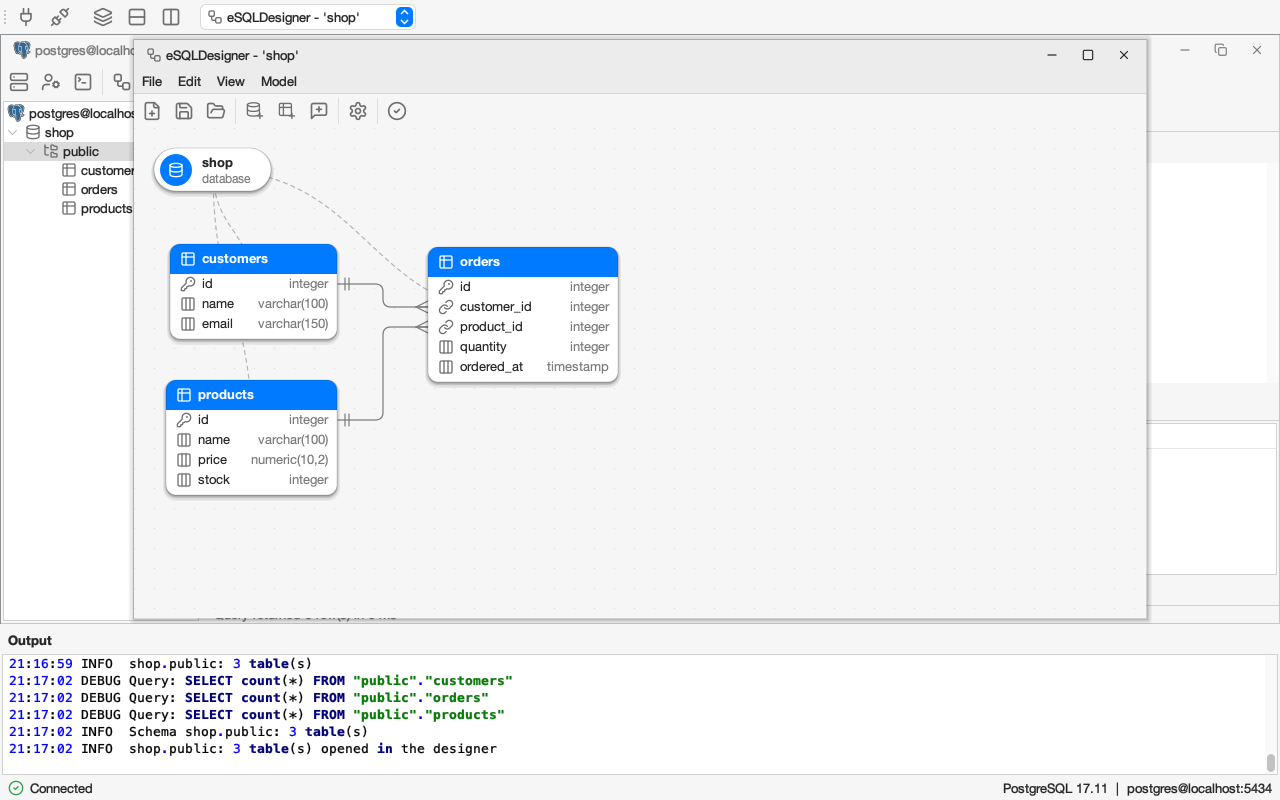
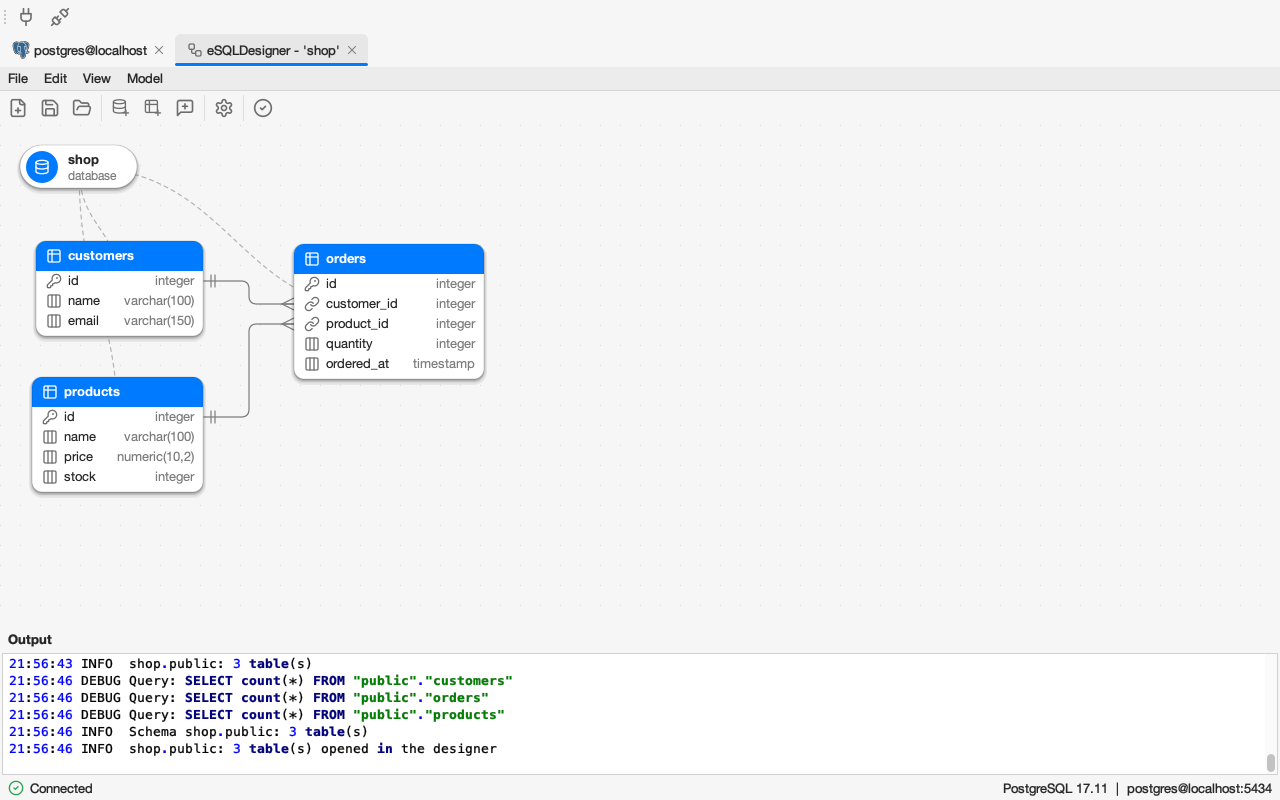
docs: describe the window tabs, retake the screenshots
Claude-Session: https://claude.ai/code/session_01TpgfMUNA4K1qpyx5mWFodg

diff --git a/CLAUDE.md b/CLAUDE.md
@@ -45,7 +45,7 @@ Java Swing database manager (originally an Errorsoft graduation project, 2002-20
 ### UI
 
 * Look and feel is FlatLaf, chosen through `settings.Appearance` (Follow the system, Light, Dark, Native) and stored in `conf/settings.xml` (`<appearance>`), changed in Settings > Preferences and applied at once. On macOS FlatLaf uses its Mac themes, `Main` sets the screen menu bar and system appearance properties before the first window (`Appearance.prepareDesktop`). The native macOS look was far too slow when resizing, so it is only used when the user picks Native.
-* Use Swing only, no AWT widgets (`Label`, `Button`, ...). Dialogs use layout managers, not null layouts with absolute bounds; `ui.util.Forms` gives the 12px padding, the button row at the bottom right, titled groups and a label/field grid. Only the designer canvas (`DesignerCanvas`, its cards, the text inside a `NoteCard`), internal frames placed by `DesktopWindows` and the splash (credits scrolled over a fixed image) place components at absolute positions.
+* Use Swing only, no AWT widgets (`Label`, `Button`, ...). Dialogs use layout managers, not null layouts with absolute bounds; `ui.util.Forms` gives the 12px padding, the button row at the bottom right, titled groups and a label/field grid. Only the designer canvas (`DesignerCanvas`, its cards, the text inside a `NoteCard`) and the splash (credits scrolled over a fixed image) place components at absolute positions.
 * Do not hardcode `Color.white` or `Color.gray`. Take colours from `UIManager` (grid lines `Table.gridColor`). A read-only `JTextPane` is painted grey by FlatLaf, set its background explicitly. A problem or success message takes `Forms.errorColor()` / `Forms.successColor()` (the theme's `Actions.Red`/`Actions.Green`, one fallback each).
 * The help tab (`help.ui.HelpPanel`) renders the Markdown of docs/ with `HelpPages.render(name, dark)`: a white page in light themes, a dark one in dark themes (the pane takes its background from the same `HelpPages.LIGHT_BACKGROUND`/`DARK_BACKGROUND`), rendered again when the look and feel changes.
 * Settings has only the appearance; there is no auto-update.
@@ -58,12 +58,12 @@ Java Swing database manager (originally an Errorsoft graduation project, 2002-20
 * What an action works on comes from the node selected in the tree through `connection.TreeSelection` (pure, null when nothing is selected; `ConnectionWindow.getDatabase/getSchema/getTable/getTableColumn` delegate to it). `ConnectionWindowController` asks for it with `selectedDatabase(action)`, `selectedTable(action)`, ... which warn "Select a table in the tree first." and return null. A query tab opened without a selection starts on the database the connection uses (`QueryController.startDatabase`).
 * Context menus are built when they open and show only the items that apply. The tree's items come from `connection.TreeMenu.itemsFor(node, dialect)` (pure, `TreeMenuTest`), based on `Dialect.supports(Feature)` and `Dialect.maintenanceCommands()`; `ConnectionWindow.perform` wires each item to a `ConnectionWindowController` method. The designer's menus are built in `DesignerCanvas` (canvas, table, database, note, connector; `DesignerCanvasMenuTest`). Popups open on `isPopupTrigger()` in both mousePressed and mouseReleased, after selecting what is under the cursor.
 * Create table, Edit table and Indexes are tabs of the connection window (`table.ui.TableEditorTab`, `table.ui.IndexesTab`, opened by `TableEditorController` and `IndexesController` through `ConnectionWindow.showEditorTab`), one per table under a key (`selectEditorTab` jumps to an open one), titled "New table", "Edit orders", "Indexes orders". Save and Cancel are at the bottom. An editor implements `ui.component.EditorTab`: `ConnectionWindow.closeTab` asks its `confirmClose()` ("Discard changes?" when modified), `removeTab` closes it without asking after a successful Save. Esc does not close a tab (`EscapeToClose` is for dialogs). The field properties of one column (`ColumnPropertiesDialog`) and the name prompt for a new index stay dialogs.
-* Work windows are internal frames on the desktop of the main window (`JDesktopPane`): connection windows and designers. The window selector of the main toolbar (`JComboBox<JInternalFrame>`, `ServerIconRenderer`) lists both. No feature opens a separate top level window for its work; dialogs stay dialogs.
+* Work windows are internal frames on the desktop of the main window (`JDesktopPane`): connection windows and designers. They are always maximized and have no title bar or border (`app.ui.WindowTabsPanel` removes the UI delegate's north pane, again after a change of look and feel); their menu bar (the designer's) stays inside the frame. `WindowTabsPanel`, a `JTabbedPane` with empty content above the desktop, has a tab per window with its frame icon (the server's brand icon, the designer icon) and title (kept in sync); selecting a tab selects the frame, an activated frame selects its tab, the close cross or a middle click calls `doDefaultCloseAction` so the frame's own close path asks (Disconnect / save), and `MainWindow.removeConnectionWindow`/`removeDesignerWindow` remove the tab. The Window menu lists the open windows plus Next/Previous window (menu key+Shift+] and [). There is no tiling or cascading. No feature opens a separate top level window for its work; dialogs stay dialogs.
 * README and docs screenshots are taken in the light appearance only.
 * Destructive actions (create and drop database) are in the context menus of the tree, not in the toolbar of the connection window. Closing a connection window asks "Disconnect from <title>?" (Disconnect / Cancel).
 * The output panel is a read-only `RSyntaxTextArea` with SQL colouring (`ui.editor.EditorTheme`, same theme as the query editor): it shows the log exactly as written.
 * The output panel does not wrap lines (re-wrapping a long log made resizing slow), keeps at most 200000 characters, and the split pane uses continuous layout with `resizeWeight` 1.0.
-* FlatLaf defaults of the application are set centrally in `settings.Appearance` as FlatLaf global extra defaults, so they follow the theme and survive a change of look and feel: the title bar of the connection window (30px high, panel background slightly darker, inactive titles in the disabled foreground, Lucide buttons drawn by `ui.icon.TitleButtonIcon`, the server icon as frame icon) and thin flat split pane dividers, and a selected tab with a darker background and the accent underline also without focus. A tab that is opened is always put in front (`setSelectedComponent`). Split panes have no one-touch arrows.
+* FlatLaf defaults of the application are set centrally in `settings.Appearance` as FlatLaf global extra defaults, so they follow the theme and survive a change of look and feel: thin flat split pane dividers, and a selected tab with a darker background and the accent underline also without focus. A tab that is opened is always put in front (`setSelectedComponent`). Split panes have no one-touch arrows.
 * The status bar of the application shows the state with its light on the left and the server and account of the active connection on the right (`ConnectionWindowController.showStatusInfo`). What a connection did last ("shop: 4 table(s) opened in the designer") is shown in the status bar below the tabs of that connection's window (`ConnectionWindow.setStatus`), on the right. A message belongs to a tab (kept as a client property of the tab component): `ConnectionWindowController.setViewStatus` (a table loaded, a table list shown) gives it to the view tab (table data or list), tree actions (`setStatusDetail(text)`: schemas listed or created, opened in the designer) go to the output panel only, `setStatus(tab, text)` (`ConnectionWindowController.setStatusDetail(tab, ...)`, used by `QueryController` for its query tab) to a given tab, and switching tabs shows the message of the new tab; a tab without a message of its own (Help, a fresh query or editor tab) leaves the bar empty; the paging buttons of the table data (`TableDataTab.getNavigationBar`) sit on the left of the same bar while the data tab is in front.
 
 ### Logging and output
@@ -99,7 +99,7 @@ Java Swing database manager (originally an Errorsoft graduation project, 2002-20
 * JDBC drivers come from Maven Central, no jars in the repository. Only PostgreSQL (BSD-2) and SQL Server (MIT) are bundled. MySQL (GPLv2 with FOSS exception) and Oracle (FUTC) are downloaded on first use by `driver.DriverService` into `DataDirectory.drivers()` (`~/.esqlmanager/drivers`, system property `esql.drivers` overrides it) at the version and SHA-256 pinned in `driver.DriverArtifact` (the trust anchor; checked on download and on every load, a mismatch is deleted and is an `EsqlException`). A jar is loaded by its own `URLClassLoader` and registered with `DriverManager` through `DriverService.DelegatingDriver`. `DatabaseConnection.connect` loads the driver through `ApplicationContext.drivers()`; `ServerType.driverSource()` says where it comes from (own jar from `<driverJar>` in driver.xml, bundled, or downloaded). `driver.control.DriverDownloadController.ensureDriver` asks before connecting or testing a connection. MySQL stays a test-scope dependency for the contract tests. Upgrading a downloaded driver means changing the version, size and SHA-256 in `DriverArtifact` (compare with the `.sha1` on Central).
 * The user documentation is Markdown in `docs/` (index.md, getting-started.md, tables-and-columns.md, query.md, designer.md, settings.md), with its images next to it. Maven copies `docs/*.md` and `docs/*.png` into the jar under `/docs`; `help.HelpPages` renders a page with commonmark (+ GFM tables) to HTML 3.2 friendly HTML and `help.ui.HelpPanel` shows it in the help tab (links to .md pages stay in the pane, http(s) links open in the browser). Update these pages when a feature changes.
 * Images and `log4j2.xml` are in `src/main/resources`. Images are loaded through `ImageLoader` (cached, paths relative to the classpath root).
-* Icons are Lucide SVGs in `src/main/resources/icons/svg` (ISC license, `NOTICE.txt`), drawn with FlatLaf's `FlatSVGIcon` so they follow the theme. A new icon is a stroke `#6e6e6e` SVG plus an `images.addIcon(name, file, size, selected)` line in `ApplicationContext.imageLoader()`; callers use `imageLoader().getIcon(name)`, never `new ImageIcon(...)`. The tree uses a `...sel` variant (selection colour) for selected rows. Brand icons (`addBrandIcon`) keep their colour, are lightened on dark themes and have a white `...sel` variant for selected rows. The application logo is `icons/logo.svg` (own artwork), rendered by `ImageLoader.logoImages()` as the window icons and the macOS Dock icon (`java.awt.Taskbar`). The only GIF left is the splash. Server logos are Devicon (MIT) and Simple Icons (CC0) SVGs (trademarks of their owners) named `brand-<slug>.svg`, filled with the brand colours and registered at 18px with `images.addBrandIcon` (keeps its colour when selected, lighter on a dark theme). `ServerType.iconName()` is the only place that maps a server type to its icon; the profile lists and the window selector of the main toolbar (`connection.ui.ServerIconRenderer`), the connection window's frame icon and the server node of the tree use it.
+* Icons are Lucide SVGs in `src/main/resources/icons/svg` (ISC license, `NOTICE.txt`), drawn with FlatLaf's `FlatSVGIcon` so they follow the theme. A new icon is a stroke `#6e6e6e` SVG plus an `images.addIcon(name, file, size, selected)` line in `ApplicationContext.imageLoader()`; callers use `imageLoader().getIcon(name)`, never `new ImageIcon(...)`. The tree uses a `...sel` variant (selection colour) for selected rows. Brand icons (`addBrandIcon`) keep their colour, are lightened on dark themes and have a white `...sel` variant for selected rows. The application logo is `icons/logo.svg` (own artwork), rendered by `ImageLoader.logoImages()` as the window icons and the macOS Dock icon (`java.awt.Taskbar`). The only GIF left is the splash. Server logos are Devicon (MIT) and Simple Icons (CC0) SVGs (trademarks of their owners) named `brand-<slug>.svg`, filled with the brand colours and registered at 18px with `images.addBrandIcon` (keeps its colour when selected, lighter on a dark theme). `ServerType.iconName()` is the only place that maps a server type to its icon; the profile lists (`connection.ui.ServerIconRenderer`), the connection window's frame icon (shown in its window tab) and the server node of the tree use it.
 * There is no licensing, registration or auto-update any more; do not reintroduce them.
 
 ### Code style
@@ -152,12 +152,12 @@ Features and their packages (all under `nl.errorsoft.esql`; each has `control` a
   * Reverse engineering: "Open in designer" (database context menu and toolbar of the connection window, enabled for a database node) calls `ConnectionWindowController.openDatabaseInDesigner`. `DesignerService.reverseEngineer(Database)` (the current schema) or `reverseEngineer(Schema)` (a schema node) returns a `DesignedDatabase` with every table (views left out, `DesignerRepository.loadTableNames` asks the metadata for type TABLE), its columns, primary key (composite too), single column indexes as the column's index/unique flags, and the foreign keys between tables of that database (`getImportedKeys`, NO ACTION as empty). `Dialect.readColumn` turns a `getColumns` row into a `ColumnDefinition` with the type names of `datatypes.xml` (PostgreSQL `int4` becomes `integer`, serial and identity columns become auto increment, `'x'::character varying` becomes `x`; MySQL strips `UNSIGNED` into the flag). `designer.ui.diagram.ModelFactory.fromDatabase` turns the records into a `Model`, `DesignerWindow(mainWindow, connectionWindow, model)` shows and arranges it. Generating it again skips what exists. Contract test: `designerReadsAnExistingDatabaseBack`.
   * Layout: `designer.layout.AutoLayout` (no Swing, sizes and edges in, positions out) uses the layered algorithm of the Eclipse Layout Kernel (`org.eclipse.elk.alg.layered`, direction right), so a referenced table is left of the tables that refer to it; tables without relations (or only a self reference) go in a grid below. ELK needs `LayoutMetaDataService.registerLayoutMetaDataProviders(new LayeredMetaDataProvider())` outside Eclipse and the undeclared `org.eclipse.xtext.xbase.lib`; Guava is pinned because ELK asks for any version. `CONSIDER_MODEL_ORDER_STRATEGY` keeps the input order within a layer, so the referenced tables follow the order of the key columns. `ModelArranger.arrange(Model)` puts the databases in a row at the top and the tables below with it (View > Arrange automatically). `AutoLayoutTest` checks overlap and order.
   * Exports: `designer.export.DiagramExporter` writes a `DiagramModel` (plain records made from a `Model` with `Model.toDiagram()`; the `designer.export` package has no Swing imports) as PlantUML or Mermaid text, without Swing (File > Export as PlantUML/Mermaid).
-* `designer.ui.diagram` holds the canvas (`DesignerCanvas`, the cards `ModelCard`, `TableCard`, `DatabaseCard`, `NoteCard`, `ConnectorPainter`), `designer.ui` also `ModelFileFilter`, `designer` the Swing-free `FieldRules` and `ModelCheck`, `designer.ui.dialog` the property, foreign key, history and generate dialogs, `designer.ui` the window (`DesignerWindow`, a `JInternalFrame` on the desktop of the main window, never a separate OS window; `MainWindow.addDesignerWindow` centres it and lists it in the window selector, `DesktopWindows.keepFramesInside` keeps it inside the desktop when the main window shrinks, `getConnectionWindow()` of the main window returns the designer's connection window when a designer is in front; closing asks to save, disconnecting closes the connection's designers first through `MainWindow.closeDesigners`; its menu bar stays inside the frame, also with the macOS screen menu bar).
+* `designer.ui.diagram` holds the canvas (`DesignerCanvas`, the cards `ModelCard`, `TableCard`, `DatabaseCard`, `NoteCard`, `ConnectorPainter`), `designer.ui` also `ModelFileFilter`, `designer` the Swing-free `FieldRules` and `ModelCheck`, `designer.ui.dialog` the property, foreign key, history and generate dialogs, `designer.ui` the window (`DesignerWindow`, a `JInternalFrame` on the desktop of the main window, never a separate OS window; `MainWindow.addDesignerWindow` gives it a window tab, maximized like the connection windows, `getConnectionWindow()` of the main window returns the designer's connection window when a designer is in front; closing asks to save, disconnecting closes the connection's designers first through `MainWindow.closeDesigners`; its menu bar stays inside the frame, also with the macOS screen menu bar).
 * `query`: statements typed by the user (`QueryService`, `QueryRepository`, `SqlScript`, `SqlContext`). `QueryService.execute` runs any statement with `Statement.execute` and returns an `ExecutionResult` (`Rows`, `Updated`, `DatabaseChanged`), so WITH, EXPLAIN, VALUES, TABLE and commented queries show rows; a database switch written the server's way (`Dialect.databaseSwitchTarget`: `USE db` on MySQL, `\connect db` or `\c db` elsewhere) goes through `DatabaseConnection.useDatabase` (on PostgreSQL `USE db` is not a switch and is sent to the server as typed). The query tab with syntax highlighting and completion (`ui.QueryTab`, `ui.SqlCompletionProvider`, `control.QueryController`).
 * `connection`: profiles, drivers, server types, the connection window and `ConnectionContext`; the connect dialog's picker is `connection.ui.DatabasePickerPanel`.
 * `server`: process list, server status and variables (`ServerService`, `ServerRepository`, `ServerProcess`). `server.control.ProcessListController` opens its own connection, refreshes on a virtual thread and kills processes; `server.ui.dialog.ProcessListDialog` only shows the rows and the countdown.
 * `app`: main window, credits, splash, start up, `OutputPanelAppender`. `settings`: `Settings`, `Appearance` and `settings.ui.dialog.SettingsDialog`.
-* `ui`: Swing parts shared by several features: `ui.icon` (`ImageLoader`, `StatusLight`), `ui.table` (`ColumnWidths`, sortable headers, `MultiLineCellEditor`), `ui.editor` (`EditorTheme`), `ui.component` (`CheckBoxTree`, `EditorTab`), `ui.util` (`DesktopWindows`, `Forms`, file filter, hyperlinks).
+* `ui`: Swing parts shared by several features: `ui.icon` (`ImageLoader`, `StatusLight`), `ui.table` (`ColumnWidths`, sortable headers, `MultiLineCellEditor`), `ui.editor` (`EditorTheme`), `ui.component` (`CheckBoxTree`, `EditorTab`), `ui.util` (`Browsers`, `Forms`, file filter).
 * `jdbc`: `DatabaseConnection` and `AbstractRepository`. `dialect`: `Dialect`, `AbstractDialect`, `DialectFactory`, `UserAdmin`, the statement records `MaintenanceStatement` and `GrantQuery`, with `mysql`, `postgres`, `sqlserver` and `oracle` sub packages. `error`: `EsqlException` and `ErrorHandler`. `job`: `ProgressListener`. `ColumnDefinition` and `DataType` are in `table`.
 * `app.ApplicationContext` (singleton, `ApplicationContext.get()`) is where components are resolved from. It holds what exists once per application (`imageLoader()`, `settings()`) and one `connection.ConnectionContext` per open connection (`connection(databaseConnection)`, released when the window closes). Do not pass an `ImageLoader` or `Settings` through controllers.
 * `ConnectionContext` creates every repository and service of one connection once and wires them with constructor injection. Services are per connection because several connections are open at the same time, so they are never application singletons. Controllers get a service from `connectionWindowController.getContext()` (`getContext().tables()`, `.databases()`, `.users()`, `.servers()`, `.queries()`, `.designer()`) and never create services or repositories themselves. A service receives its repository and the services it needs in its constructor (`BlobService` uses `TableService.rowFilter`). Jobs that report progress to observers (export, import, blob transfer) are created per run with `newExport`, `newImport` and `newBlobTransfer`. A new feature adds its repository and service to `ConnectionContext`.

diff --git a/README.md b/README.md
@@ -21,7 +21,7 @@ Each database has its own dialect (`nl.errorsoft.esql.dialect`) that decides how
 | Saved connection profiles with auto-connect, duplicate, optional saved password | yes | yes | yes | yes |
 | Test connection from the profile dialog | yes | yes | yes | yes |
 | Choose the databases and schemas a profile shows (checkbox tree in the profile dialog) | yes | yes | yes | no |
-| Several connections open at once, tiled or cascaded | yes | yes | yes | yes |
+| Several connections open at once, one tab per window | yes | yes | yes | yes |
 | JDBC driver configuration | yes | yes | yes | yes |
 | Browse databases, tables, views and columns in a tree | yes | yes | yes | yes |
 | Schemas in the tree (server > databases > schemas > tables), create, rename and drop a schema | no | yes | no | no |
@@ -85,7 +85,7 @@ Known gaps with schemas: the user manager grants table privileges without a sche
 
 ## Database designer
 
-The designer (Tools > Database Designer) opens as a window on the desktop of eSQLManager, next to the connection windows and listed in the window selector of the toolbar, one per model. It draws a model of databases, tables and notes and generates it on the server. Tables are cards with an icon per column (key for the primary key, link for a foreign key column), in the colours of the light or dark theme. Right click the canvas to add a database, table or note at that spot, select all, arrange or toggle the grid; right click a card or a connector for what applies to it.
+The designer (Tools > Database Designer) opens as a window on the desktop of eSQLManager, with a tab of its own next to the connection windows, one per model. It draws a model of databases, tables and notes and generates it on the server. Tables are cards with an icon per column (key for the primary key, link for a foreign key column), in the colours of the light or dark theme. Right click the canvas to add a database, table or note at that spot, select all, arrange or toggle the grid; right click a card or a connector for what applies to it.
 
 * Drag from the icon of a column onto a column of another table to create a foreign key, or use "Add foreign key..." in the table's context menu or the Foreign Keys tab of its properties. The dialog takes several column pairs, a name (default `fk_<table>_<column>`) and the ON DELETE and ON UPDATE actions.
 * Foreign keys are drawn from column to column with a crow's foot at the many side. Double click a line to edit it, select it and press Delete to remove it.
@@ -211,7 +211,7 @@ Settings > Preferences holds the appearance (below), the font size of the SQL ed
 
 ### Appearance
 
-Settings > Preferences > Appearance chooses the look and feel: follow the system (light or dark, on macOS), light, dark or the native look of the operating system. The choice is stored in `settings.xml` and applies at once. On macOS the menu is in the screen menu bar. The icons are vector icons from [Lucide](https://lucide.dev) that follow the theme. Profiles, connection windows, the window selector in the toolbar and the server node of the tree show the logo of the server (PostgreSQL, MySQL, Oracle, SQL Server, from [Devicon](https://devicon.dev) and [Simple Icons](https://simpleicons.org)).
+Settings > Preferences > Appearance chooses the look and feel: follow the system (light or dark, on macOS), light, dark or the native look of the operating system. The choice is stored in `settings.xml` and applies at once. On macOS the menu is in the screen menu bar. The icons are vector icons from [Lucide](https://lucide.dev) that follow the theme. Profiles, the window tabs and the server node of the tree show the logo of the server (PostgreSQL, MySQL, Oracle, SQL Server, from [Devicon](https://devicon.dev) and [Simple Icons](https://simpleicons.org)).
 
 ## Logging
 

diff --git a/.claude/skills/esql-architecture/SKILL.md b/.claude/skills/esql-architecture/SKILL.md
@@ -161,7 +161,7 @@ This is the naming standard. New and renamed classes must follow it. Existing cl
 
 ### N2: Static-only helpers are a plural noun
 
-`Forms`, `Encodings`, `Validation`, `DesktopWindows`. Never `Util` / `Utils` / `Helper`.
+`Forms`, `Encodings`, `Validation`, `Browsers`. Never `Util` / `Utils` / `Helper`.
 
 A static class that is one algorithm or one conversion may be named after what it does instead (`AutoLayout`, `DiagramExporter`), when a plural noun would say less.
 
@@ -215,5 +215,4 @@ Known layer and naming problems that are not fixed yet. Do not report them again
 - `designer.ui.dialog.ModelPropertiesPanel`, `DatabasePropertiesPanel` and `TablePropertiesPanel` are panels in `ui.dialog` because only `DesignerPropertiesDialog` uses them.
 - `blob.ui.TransferProgress` is the window interface the controller drives; it is not a `Listener` because it also opens the window.
 - `app.ui.CreditsPanel` extends `java.awt.Canvas` (an AWT widget).
-- `ui.util.DesktopWindows` also holds `openInBrowser`, which is not about the desktop.
 - `error.ErrorHandler` shows the error dialog itself (Swing by design): it is the one place that turns a failure into a message, called from controllers and windows.

diff --git a/docs/getting-started.md b/docs/getting-started.md
@@ -26,7 +26,7 @@ The **Databases and schemas** tab is available after a successful test. It lists
 
 Profiles are saved in `conf/profiles.xml`. A saved password is stored there in plain text, so only save one on a machine you trust, or turn Save password off.
 
-Several connections can be open at the same time. Their windows, and the designer windows, sit on the desktop of eSQLManager; the window selector in the toolbar brings one to the front. Window > Tile horizontal, Tile vertical and Cascade arrange them.
+Several connections can be open at the same time. Each connection window, and each designer, has a tab at the top of eSQLManager with the logo of its server and its title; click a tab to bring that window to the front, or use Window > Next window and Previous window (Cmd/Ctrl+Shift+] and [) or pick it from the Window menu. The cross on a tab (or a middle click) closes the window: a connection asks "Disconnect from ...?", a designer asks to save its model.
 
 ## The connection window
 

diff --git a/docs/designer.md b/docs/designer.md
@@ -2,7 +2,7 @@
 
 [Back to the help index](index.md)
 
-Tools > Database Designer draws a model of databases, tables and notes, and generates it on a MySQL or PostgreSQL server. The designer opens as a window on the desktop of eSQLManager, next to the connection windows; the window selector in the toolbar lists it, so you can switch between a connection and its models. Each model has its own designer window. Closing it (or disconnecting its connection) asks to save the model first.
+Tools > Database Designer draws a model of databases, tables and notes, and generates it on a MySQL or PostgreSQL server. The designer opens as a window on the desktop of eSQLManager, with a tab of its own next to the connection windows, so you can switch between a connection and its models. Each model has its own designer window. Closing it (or disconnecting its connection) asks to save the model first.
 
 ![The model designer with the shop database and its tables](designer.png)
 

diff --git a/.claude/skills/esql-ui/SKILL.md b/.claude/skills/esql-ui/SKILL.md
@@ -30,7 +30,7 @@ JOptionPane.showConfirmDialog(window, "Are you sure?");
 ## Rule U2: Layout
 
 **Flag:**
-- A null layout with absolute bounds outside the allowed places: the designer canvas (`DesignerCanvas`, its cards, text inside a `NoteCard`), internal frames placed by `DesktopWindows`, and the splash.
+- A null layout with absolute bounds outside the allowed places: the designer canvas (`DesignerCanvas`, its cards, text inside a `NoteCard`), and the splash.
 - A dialog or panel not built with `ui.util.Forms` (12px padding, button row bottom right, titled groups, label/field grid).
 - AWT widgets (`Label`, `Button`, `TextField`) instead of Swing.
 
